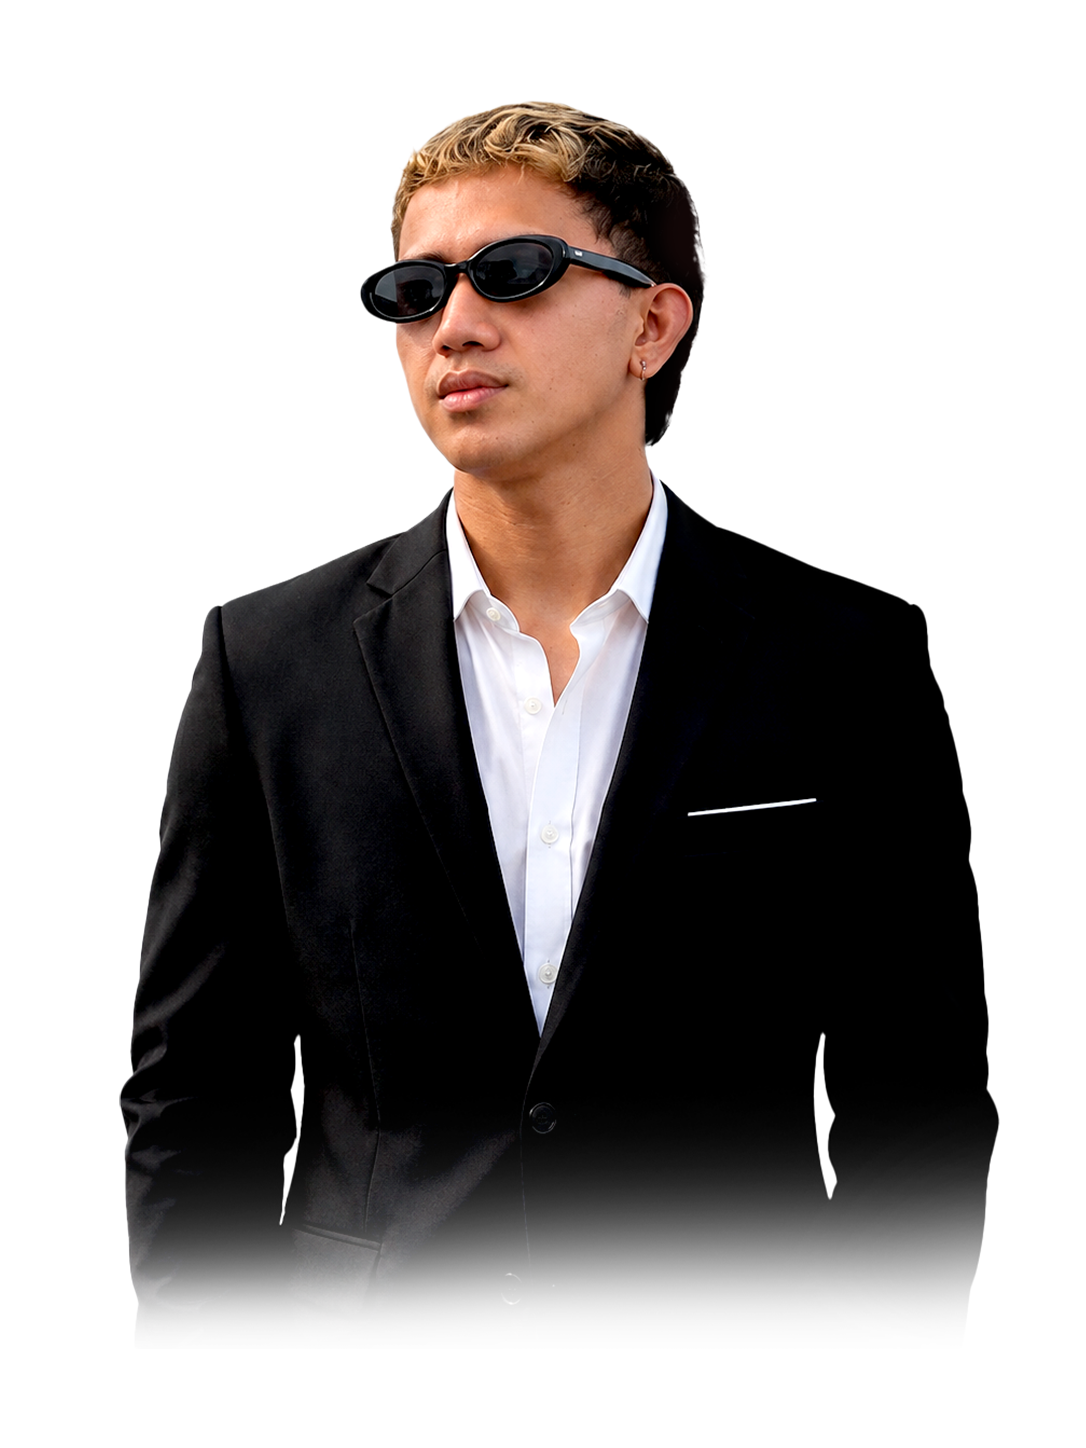
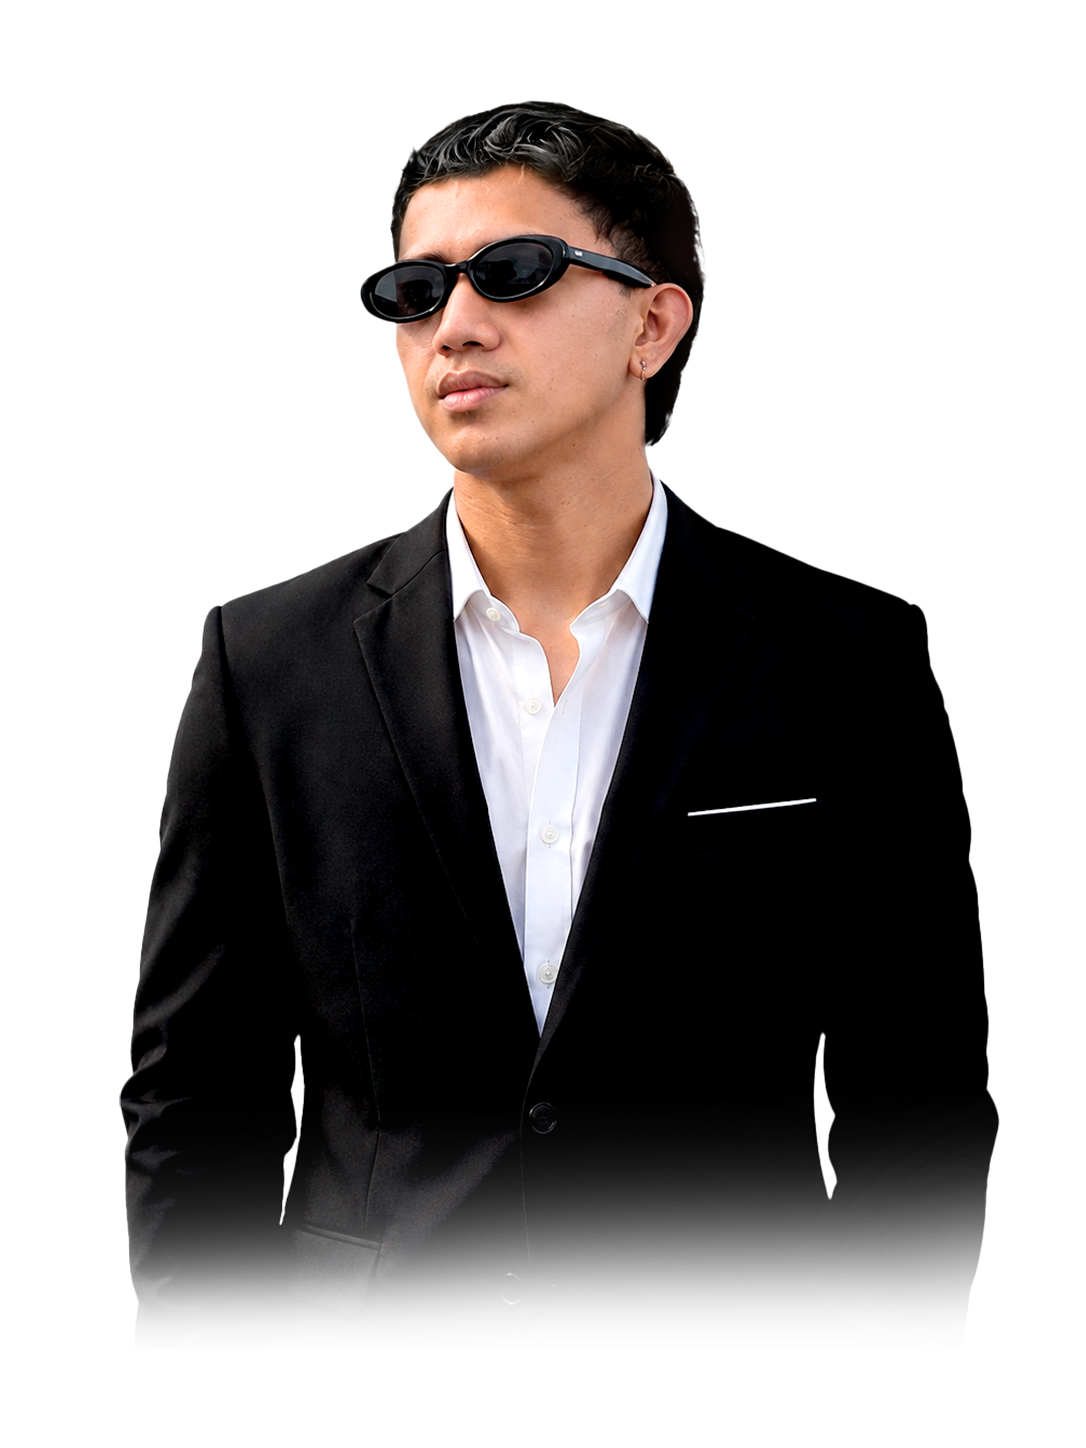
Add GX in Bangkok project

Changed region(s): [[0.3646, 0.0622, 0.6077, 0.2797], [0.6077, 0.1865, 0.6381, 0.2486]]

diff --git a/src/data/portfolioData.js b/src/data/portfolioData.js
@@ -295,7 +295,7 @@ export const profileData = {
       client: "Kaiser International and Manila Bankers Assurance",
       publishedDate: "2024",
       views: "679",
-      appreciations: 0,
+      appreciations: 5745,
 
       behanceLink: "https://www.behance.net/erlanvillania",
 
@@ -311,6 +311,52 @@ export const profileData = {
         "Graphic Design",
         "Print Design",
         "Branding"
+      ]
+    },   
+    
+    // =========================================================
+    // PROJECT 05
+    // =========================================================
+
+    {
+      id: "gx-in-bangkok",
+      number: "05",
+
+      title: "GX IN BANGKOK EVENT",
+      category: "EVENT PROMOTIONAL DESIGN",
+      categoryLabel: "EVENT CAMPAIGN & DIGITAL DESIGN",
+
+      coverImage: "/projects/gx-in-bangkok/thailand icon.png",
+
+      images: [
+        "/projects/gx-in-bangkok/gx-in-bangkok 1.jpg",
+        "/projects/gx-in-bangkok/gx-in-bangkok 2.jpg",
+        "/projects/gx-in-bangkok/gx-in-bangkok 3.jpg",
+        "/projects/gx-in-bangkok/gx-in-bangkok 4.jpg",
+        "/projects/gx-in-bangkok/gx-in-bangkok 5.jpg"
+        
+      ],
+
+      client: "GX in Bangkok",
+      publishedDate: "2024",
+      views: "5768",
+      appreciations: 6789,
+
+      behanceLink: "https://www.behance.net/erlanvillania",
+
+      summary:
+        "Event campaign and promotional visuals designed for GX in Bangkok.",
+
+      description:
+        "A complete event design project for GX in Bangkok, featuring promotional graphics, social media creatives, event visuals, and digital marketing materials created to build excitement and deliver a strong visual identity for the event.",
+
+      tools: [
+        "Adobe Photoshop",
+        "Adobe Illustrator",
+        "Graphic Design",
+        "Social Media Design",
+        "Event Design",
+        "Digital Advertising"
       ]
     }
   ]

diff --git a/src/components/Hero.jsx b/src/components/Hero.jsx
@@ -201,7 +201,7 @@ export default function Hero() {
                 <div className="relative w-full max-w-md">
 
                   {/* Crimson Ambient Glow Behind Character */}
-                  <div className="absolute inset-0 bg-crimson/25 rounded-full blur-[100px] pointer-events-none" />
+                  <div className="absolute inset-0 bg-[170405]/30 rounded-full blur-[100px] pointer-events-none" />
 
                   {/* Transparent Floating Character Container */}
                   <div className="relative flex justify-center items-center bg-transparent p-0 border-0 shadow-none">
